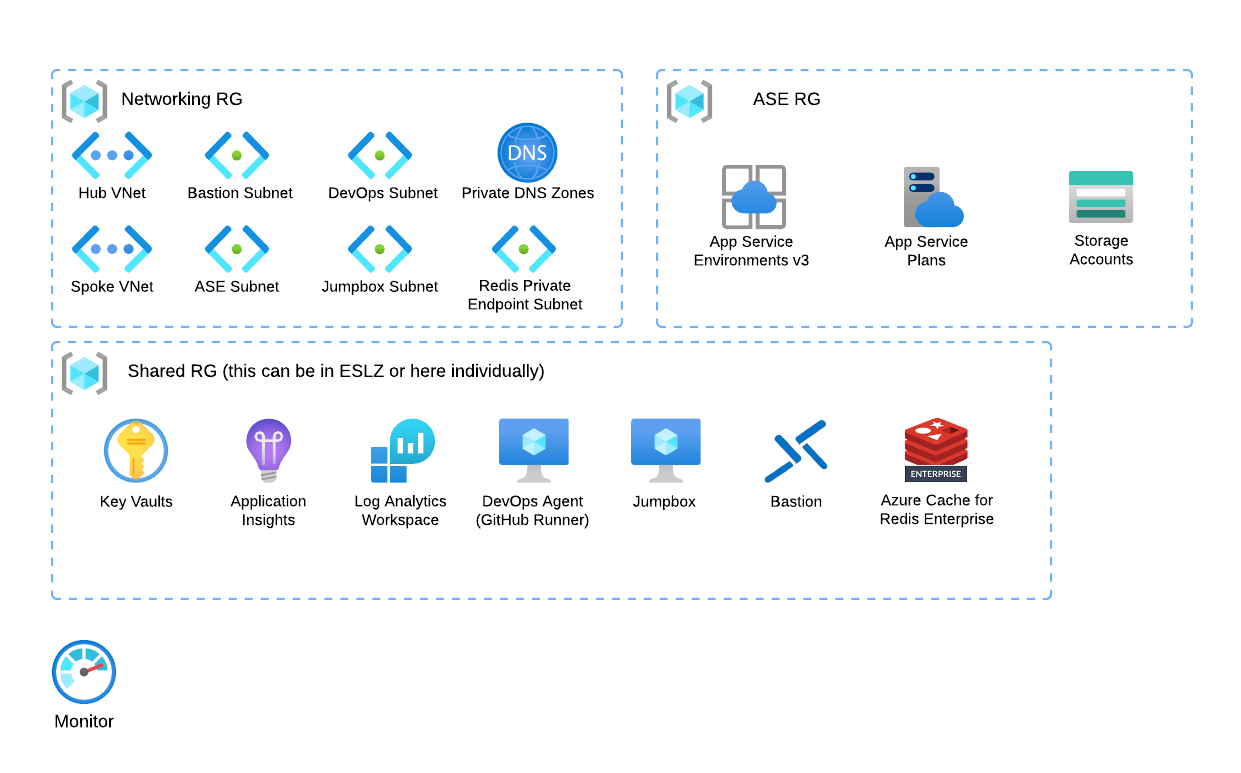
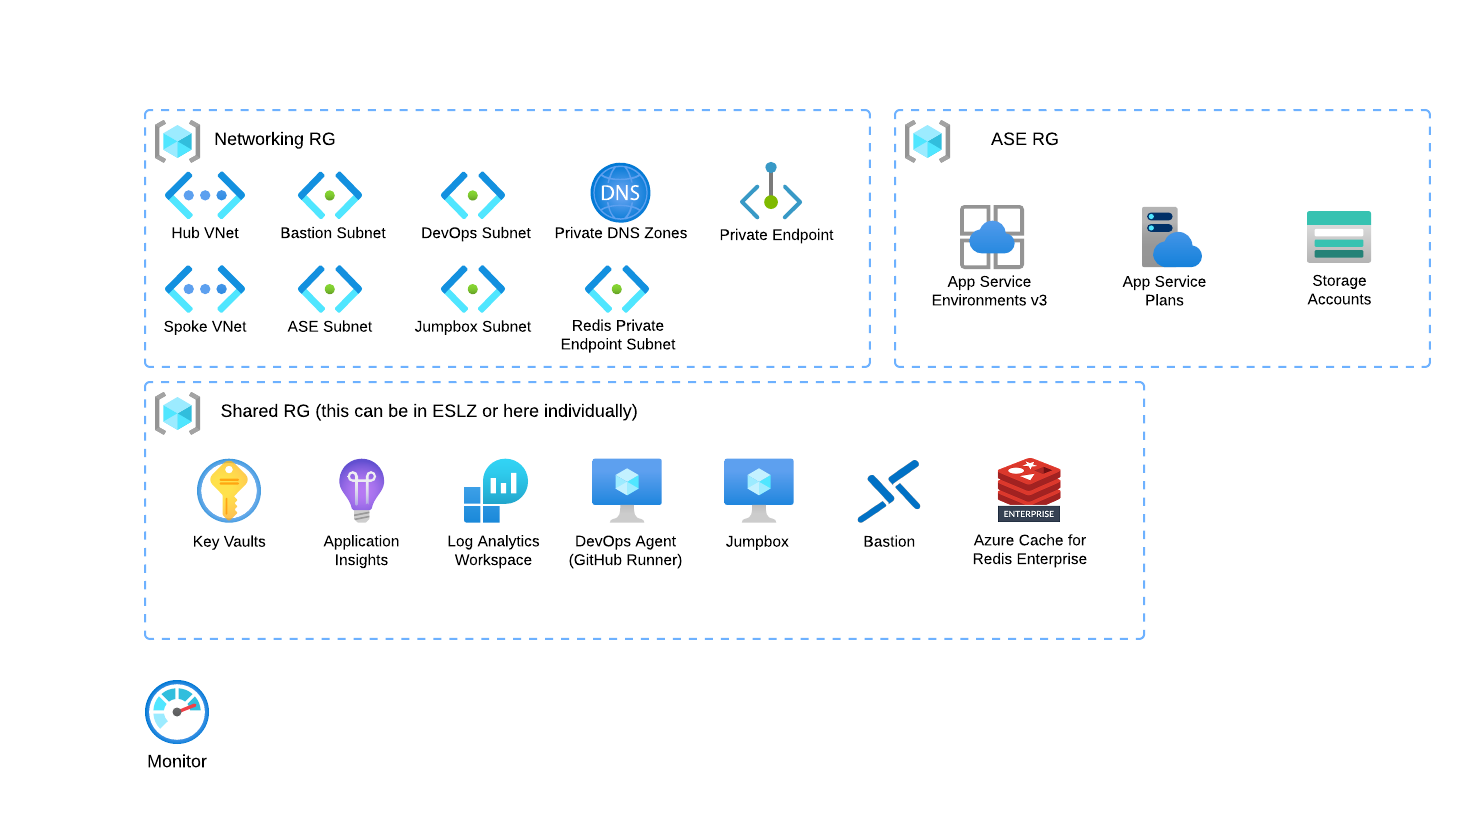
Adding redis as an option (#84)
Build check failed for prod bicep deployment, but as discussed for PRs we will refactor the pipeline code to only do static code analysis/validation in the future

diff --git a/scenarios/secure-baseline-ase/bicep/README.md b/scenarios/secure-baseline-ase/bicep/README.md
@@ -1,10 +1,13 @@
 # User Guide for Reference Implementation Deployment
 
 ## Pre-requisite
+
+
 1. Active Azure subscription
 2. Active GitHub repository
 3. (Optional) Azure DevOps or GitHub account name
 
+- See [here](https://azure.microsoft.com/en-us/explore/global-infrastructure/products-by-region/?products=redis-cache&regions=all) for a list of avaibility regions for Azure Cache for Redis.
 
 ## Steps
 1. Clone this repository ([aka.ms/EnterpriseScale-AppService](https://aka.ms/EnterpriseScale-AppService)) to your organization/repository
@@ -40,7 +43,7 @@
    - `PAT` (your personal access token for Azure Devops/GitHub in plain text)
    - `VM_PW` (password for the VMs that will be created in plain text)
    - (Optional) `ACTIONS_STEP_DEBUG` (set this to true if you want [additional information](https://docs.github.com/en/actions/monitoring-and-troubleshooting-workflows/enabling-debug-logging) running the GitHub workflows)
-4. Navigate to [config.yml](/scenarios/secure-baseline-ase/bicep/config.yml) and modify any of the following vlaues as required:
+4. Navigate to [config.yml](/scenarios/secure-baseline-ase/bicep/config.yml) and modify any of the following values as required:
     
     Below are the default values in config.yml
     
@@ -52,6 +55,8 @@
     VM_USERNAME: 'agent'
     ACCOUNT_NAME: 'replace me in repo secrets'
     CICD_AGENT_TYPE: 'azuredevops'
+    CREATE_REDIS_RESOURCE: true
+    REDIS_TIER: 'Enterprise_E10'
     ```
 
    - `AZURE_LOCATION` (supported regions for the current subscription can be found with [az account list-locations](https://docs.microsoft.com/en-us/cli/azure/account?view=azure-cli-latest#az_account_list_locations))
@@ -60,7 +65,9 @@
    - `DEPLOYMENT_NAME` (used for logging for deployment hisotry)
    - `VM_USERNAME` (user name for VMs created)
    - `ACCOUNT_NAME` (the value will be replaced with repository secret)
-   - `CICD_AGENT_TYPE` (github, azuredevops, or none) 
+   - `CICD_AGENT_TYPE` (github, azuredevops, or none)
+   - `CREATE_REDIS_RESOURCE` (lets you select if you want to deploy Azure Cache for Redis)
+   - `REDIS_TIER` (lets you pass the tier/sku name of Azure Cache for Redis to be created)
 5. Push the configuration changes to your feature branch, then create a pull request to main. This should trigger the build. Current builds can be found at **Actions** with the selected workflow (AzureBicepDeploy in this case)
    ![AzureBicepDeploy](/scenarios/secure-baseline-ase/bicep/Images/AzureBicepDeploy.png)
    Alternatively, you can also trigger a build by going to **Actions** selecting the specific workflow (ie. AzureBicepDeploy), and then selecting **Run workflow**.

diff --git a/docs/Design-Areas/identity-access-mgmt.md b/docs/Design-Areas/identity-access-mgmt.md
@@ -14,5 +14,6 @@
 - Use [Azure built-in roles](https://learn.microsoft.com/en-us/azure/role-based-access-control/built-in-roles#web-plan-contributor) to provide least privilege permissions to manage App Service Plans and Websites
 - Utilize system-assigned [managed identities](https://learn.microsoft.com/en-us/azure/app-service/overview-managed-identity?tabs=dotnet) to securely access AAD-protected backend resources.
 - Ensure that users with access to Production resources in Azure are controlled and limited.
-- For automated deployment purposes, setup a [service principal](https://learn.microsoft.com/en-us/azure/active-directory/develop/app-objects-and-service-principals) that has the minimum required permissions to deploy from the pipeline
-- Review and follow the recommendations outlined in the [Identity and Access Control section](https://learn.microsoft.com/en-us/security/benchmark/azure/baselines/app-service-security-baseline?toc=/azure/app-service/toc.json#identity-and-access-control) of the Azure security baseline for App Service.
+- For automated deployment purposes, setup a [service principal](https://docs.microsoft.com/en-us/azure/active-directory/develop/app-objects-and-service-principals) that has the minimum required permissions to deploy from the pipeline
+- Review and follow the recommendations outlined in the [Identity and Access Control section](https://docs.microsoft.com/en-us/security/benchmark/azure/baselines/app-service-security-baseline?toc=/azure/app-service/toc.json#identity-and-access-control) of the Azure security baseline for App Service.
+- Review document on how to [connect](https://learn.microsoft.com/en-us/azure/azure-cache-for-redis/cache-dotnet-how-to-use-azure-redis-cache) your application with Azure Cache for Redis

diff --git a/docs/Design-Areas/BCDR.md b/docs/Design-Areas/BCDR.md
@@ -28,3 +28,14 @@
 - Where your ASE instances are deployed across Availability Zones in the same region, use Azure Application Gateway to provide load balancing and WAF capabilities between the instances.
 - Where cross-regional high availability is required, utilize Azure Front Door to provide load balancing and WAF capabilities between the different instances.
 - Modify your CI/CD processes so that changes to the solution are deployed to each target ASE instance.
+
+### Azure Cache for Redis Enterprise:
+
+- You can achieve different tiers of high availability.
+  - 99.9% (Default configuration, deploying Azure Cache for Redis Enterprise without Zone Redudancy option enabled)
+  - 99.99% (Deploying Azure Cache for Redis Enterprise with Zone Redundancy option enabled)
+  - 99.999% (Deploying Azure Cache fore Redis Enterprise with Zone Redundancy option enabled + Active Geo Replication)
+
+- The application should decide to which instance or instances use for read and write requests. If you have deployed app services to multiple regions, the application should write/read to Azure Cache for Redis Enterprise located on the same region or the closest region.
+
+- In case of a region outage and using Active Geo Replication, remember to force-unlink the caches that are affected. This will ensure that the healthy clusters that are part of the replication group don't fail. Read more [here](https://learn.microsoft.com/en-us/azure/azure-cache-for-redis/cache-how-to-active-geo-replication#force-unlink-if-theres-a-region-outage)

diff --git a/docs/Design-Areas/security-governance-compliance.md b/docs/Design-Areas/security-governance-compliance.md
@@ -14,4 +14,4 @@
 - [Enable Cross-Origin Resource Sharing (CORS)](https://docs.microsoft.com/en-us/azure/app-service/app-service-web-tutorial-rest-api#enable-cors) within App Services or using your own CORS utilities to indicate which origins the user’s browser should permit resources to be loaded from.
 - When deploying containerized web applications to App Services, [enable Azure Defender for container registries](https://docs.microsoft.com/en-us/azure/security-center/defender-for-container-registries-introduction) to automatically scan images for vulnerabilities.
 - Enable[ Azure Defender for App Service](https://docs.microsoft.com/en-us/azure/security-center/defender-for-app-service-introduction#:~:text=%20When%20you%20enable%20Azure%20Defender%20for%20App,App%20Service%20resources%20by%20monitoring%3A%0Athe%20VM...%20More%20) to assess the security of your web applications and detect threats to your App Service resources.
-
+- Use [Private Endpoint for Azure Cache for Redis Enterprise](https://learn.microsoft.com/en-us/azure/azure-cache-for-redis/cache-private-link)

diff --git a/docs/Design-Areas/networking.md b/docs/Design-Areas/networking.md
@@ -35,3 +35,7 @@
 - Since subnet size can't be changed after assignment, use a subnet that's large enough to accommodate whatever scale your app might reach. To avoid any issues with subnet capacity, you should use a /26 with 64 addresses for Vnet integration.
 ### App Service Enviornment:
 - Your subnet should be sized with a /24 CIDR range, providing 256 addresses. 
+
+### Azure Cache for Redis Enterprise
+
+- For security and isolation reasons the bicep files will deploy Azure Cache for Redis Enterprise inside its own subnet using a private endpoint. Depending on the level of security needed and the topology of your network, you can us as-is or deploy to  an already established subnet that you have.
